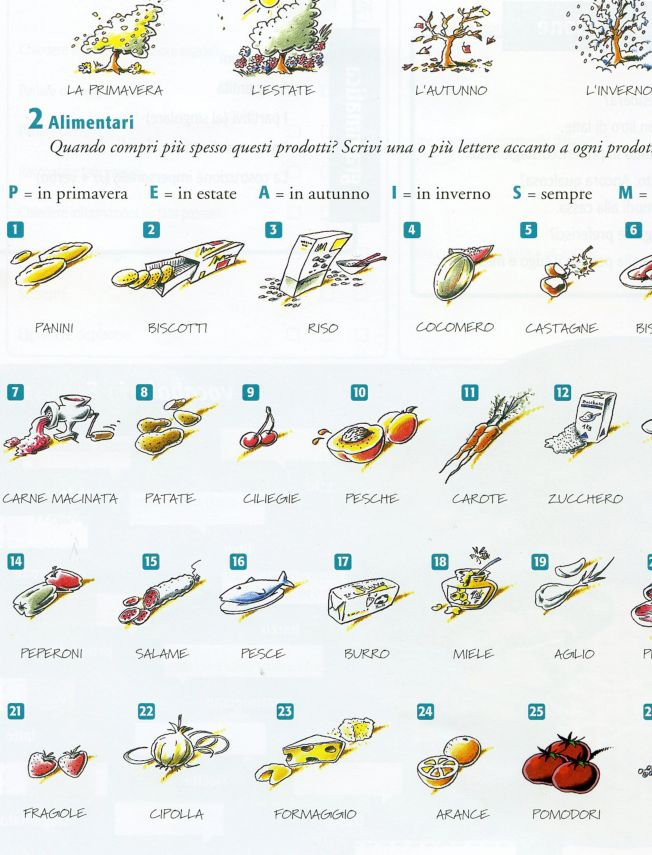
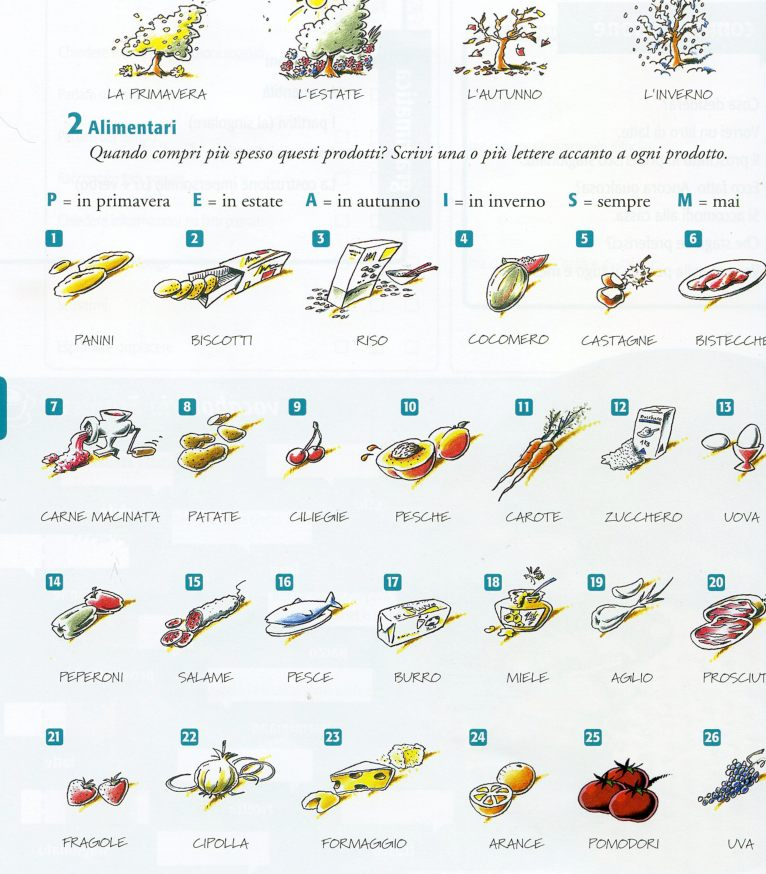
Improve Lesson 8-9 textbook image crops and give specific visual exercise answer checks

diff --git a/a1/lesson-09/exercise.md b/a1/lesson-09/exercise.md
@@ -408,7 +408,7 @@ Attempt each before expanding its answer, then invent a different sentence based
 
 <details><summary>How to check</summary>
 
-Use the original visible words and details in the cropped textbook picture, or compare to its printed captions. Where the exercise requires the publisher's recorded material, do not invent the official audio result. Try an original complete sentence using the [Vocabulary](vocabulary.md) words.
+Visible scenes include **playing football, working at a computer, shaving, working in a shop, and watching television**. Example: `Lui si fa la barba la mattina.`
 
 </details>
 
@@ -416,7 +416,7 @@ Use the original visible words and details in the cropped textbook picture, or c
 
 <details><summary>How to check</summary>
 
-Use the original visible words and details in the cropped textbook picture, or compare to its printed captions. Where the exercise requires the publisher's recorded material, do not invent the official audio result. Try an original complete sentence using the [Vocabulary](vocabulary.md) words.
+Read the print for the person's own reason; a model response is: `Domani ha una partita importante, quindi va a letto presto.` Do not claim an official listening answer without audio.
 
 </details>
 
@@ -426,7 +426,7 @@ Use the original visible words and details in the cropped textbook picture, or c
 
 <details><summary>How to check</summary>
 
-Use the original visible words and details in the cropped textbook picture, or compare to its printed captions. Where the exercise requires the publisher's recorded material, do not invent the official audio result. Try an original complete sentence using the [Vocabulary](vocabulary.md) words.
+The panels show a mixture of **waking, dressing, sport, work, television, and going to bed**. A sample timeline: `Mi sveglio, mi lavo, mi vesto, lavoro, faccio sport, guardo la TV, vado a letto.`
 
 </details>
 
@@ -434,7 +434,7 @@ Use the original visible words and details in the cropped textbook picture, or c
 
 <details><summary>How to check</summary>
 
-Use the original visible words and details in the cropped textbook picture, or compare to its printed captions. Where the exercise requires the publisher's recorded material, do not invent the official audio result. Try an original complete sentence using the [Vocabulary](vocabulary.md) words.
+Sample schedule: `Lavoro dalle nove alle cinque`; `Esco prima delle otto`; `Torno dopo le sei`. Check your specific source readings against these expressions.
 
 </details>
 
@@ -444,7 +444,7 @@ Use the original visible words and details in the cropped textbook picture, or c
 
 <details><summary>How to check</summary>
 
-Use the original visible words and details in the cropped textbook picture, or compare to its printed captions. Where the exercise requires the publisher's recorded material, do not invent the official audio result. Try an original complete sentence using the [Vocabulary](vocabulary.md) words.
+Use **all six original panels**. An original retelling: `Sabato mi sveglio tardi, esco, faccio una passeggiata, incontro gli amici e torno a casa.` Confirm scene details from the image rather than forcing this model onto the book characters.
 
 </details>
 
@@ -454,7 +454,7 @@ Use the original visible words and details in the cropped textbook picture, or c
 
 <details><summary>How to check</summary>
 
-Use the original visible words and details in the cropped textbook picture, or compare to its printed captions. Where the exercise requires the publisher's recorded material, do not invent the official audio result. Try an original complete sentence using the [Vocabulary](vocabulary.md) words.
+Follow the depicted clocks in sequence, then say: `Prima fa colazione, poi esce, dopo pranza e la sera torna a casa.` The precise times must be read from the visible clocks.
 
 </details>
 
@@ -462,7 +462,7 @@ Use the original visible words and details in the cropped textbook picture, or c
 
 <details><summary>How to check</summary>
 
-Use the original visible words and details in the cropped textbook picture, or compare to its printed captions. Where the exercise requires the publisher's recorded material, do not invent the official audio result. Try an original complete sentence using the [Vocabulary](vocabulary.md) words.
+For example: `Natale — 25 dicembre`; `Capodanno — 1 gennaio`; `Festa della donna — 8 marzo`. The source activity gives other celebrations as well.
 
 </details>
 
@@ -472,7 +472,7 @@ Use the original visible words and details in the cropped textbook picture, or c
 
 <details><summary>How to check</summary>
 
-Use the original visible words and details in the cropped textbook picture, or compare to its printed captions. Where the exercise requires the publisher's recorded material, do not invent the official audio result. Try an original complete sentence using the [Vocabulary](vocabulary.md) words.
+Original responses: `Ho superato l'esame!` → `Congratulazioni!`; `Domani vieni al cinema?` → `Volentieri!`; `Non posso venire` → `Peccato, un'altra volta!`
 
 </details>
 
@@ -480,7 +480,7 @@ Use the original visible words and details in the cropped textbook picture, or c
 
 <details><summary>How to check</summary>
 
-Use the original visible words and details in the cropped textbook picture, or compare to its printed captions. Where the exercise requires the publisher's recorded material, do not invent the official audio result. Try an original complete sentence using the [Vocabulary](vocabulary.md) words.
+`mi sveglio, ti svegli, si sveglia, ci svegliamo, vi svegliate, si svegliano`.
 
 </details>
 
@@ -488,7 +488,7 @@ Use the original visible words and details in the cropped textbook picture, or c
 
 <details><summary>How to check</summary>
 
-Use the original visible words and details in the cropped textbook picture, or compare to its printed captions. Where the exercise requires the publisher's recorded material, do not invent the official audio result. Try an original complete sentence using the [Vocabulary](vocabulary.md) words.
+Possible question: `Sei libero mercoledì sera?`; possible response: `No, ho un appuntamento. Facciamo venerdì?`. Verify the source agenda/video separately.
 
 </details>
 
@@ -498,7 +498,7 @@ Use the original visible words and details in the cropped textbook picture, or c
 
 <details><summary>How to check</summary>
 
-Use the original visible words and details in the cropped textbook picture, or compare to its printed captions. Where the exercise requires the publisher's recorded material, do not invent the official audio result. Try an original complete sentence using the [Vocabulary](vocabulary.md) words.
+The five images depict **a bottle, flowers, baby booties, a wrapped gift and red flowers/plant material**. Choose a plausible occasion, and explain why; multiple answers can be acceptable.
 
 </details>
 

diff --git a/a1/lesson-08/exercise.md b/a1/lesson-08/exercise.md
@@ -416,7 +416,7 @@ Attempt each before expanding its answer, then invent a different sentence based
 
 <details><summary>How to check</summary>
 
-Use the original visible words and details in the cropped textbook picture, or compare to its printed captions. Where the exercise requires the publisher's recorded material, do not invent the official audio result. Try an original complete sentence using the [Vocabulary](vocabulary.md) words.
+Visible examples: **1 panini, 2 biscotti, 3 riso, 4 cocomero, 5 castagne, 6 bistecche**. Other correct items are in the same image grid. Try: `Compro le fragole in primavera.`
 
 </details>
 
@@ -424,7 +424,7 @@ Use the original visible words and details in the cropped textbook picture, or c
 
 <details><summary>How to check</summary>
 
-Use the original visible words and details in the cropped textbook picture, or compare to its printed captions. Where the exercise requires the publisher's recorded material, do not invent the official audio result. Try an original complete sentence using the [Vocabulary](vocabulary.md) words.
+Try these six words, then check the original image labels: `panini, ciliegie, carote, miele, formaggio, uva`. Different six-item selections are also valid.
 
 </details>
 
@@ -434,7 +434,7 @@ Use the original visible words and details in the cropped textbook picture, or c
 
 <details><summary>How to check</summary>
 
-Use the original visible words and details in the cropped textbook picture, or compare to its printed captions. Where the exercise requires the publisher's recorded material, do not invent the official audio result. Try an original complete sentence using the [Vocabulary](vocabulary.md) words.
+From left to right the actual photographs show **mercato, panificio, macelleria**. Example requests: `Vorrei un chilo di mele`; `Vorrei del pane`; `Vorrei due etti di carne`.
 
 </details>
 
@@ -444,7 +444,7 @@ Use the original visible words and details in the cropped textbook picture, or c
 
 <details><summary>How to check</summary>
 
-Use the original visible words and details in the cropped textbook picture, or compare to its printed captions. Where the exercise requires the publisher's recorded material, do not invent the official audio result. Try an original complete sentence using the [Vocabulary](vocabulary.md) words.
+The source conversation includes requests for **mortadella, parmigiano, olive, yogurt** and food quantities. Find the phrases for `tre etti`, `un etto` and a request using `ne`; the exact original dialogue is visible above.
 
 </details>
 
@@ -452,7 +452,7 @@ Use the original visible words and details in the cropped textbook picture, or c
 
 <details><summary>How to check</summary>
 
-Use the original visible words and details in the cropped textbook picture, or compare to its printed captions. Where the exercise requires the publisher's recorded material, do not invent the official audio result. Try an original complete sentence using the [Vocabulary](vocabulary.md) words.
+Original model: `Buongiorno, vorrei due etti di parmigiano.` — `Fresco o stagionato?` — `Stagionato, grazie.` — `Nient'altro?` — `No, quanto viene?`
 
 </details>
 
@@ -462,7 +462,7 @@ Use the original visible words and details in the cropped textbook picture, or c
 
 <details><summary>How to check</summary>
 
-Use the original visible words and details in the cropped textbook picture, or compare to its printed captions. Where the exercise requires the publisher's recorded material, do not invent the official audio result. Try an original complete sentence using the [Vocabulary](vocabulary.md) words.
+Look at the printed five recipe pictures. The captions show **cuocere, versare, mescolare, aggiungere, tagliare**. An original sequence: `Prima taglio le verdure, poi verso l'olio, aggiungo il sale, mescolo e cuocio.`
 
 </details>
 
@@ -470,7 +470,7 @@ Use the original visible words and details in the cropped textbook picture, or c
 
 <details><summary>How to check</summary>
 
-Use the original visible words and details in the cropped textbook picture, or compare to its printed captions. Where the exercise requires the publisher's recorded material, do not invent the official audio result. Try an original complete sentence using the [Vocabulary](vocabulary.md) words.
+Examples: `€4,20 = quattro euro e venti centesimi`; `€7,50 = sette euro e cinquanta`; `€12,00 = dodici euro`. €20 − €12 = **otto euro di resto**.
 
 </details>
 
@@ -478,7 +478,7 @@ Use the original visible words and details in the cropped textbook picture, or c
 
 <details><summary>How to check</summary>
 
-Use the original visible words and details in the cropped textbook picture, or compare to its printed captions. Where the exercise requires the publisher's recorded material, do not invent the official audio result. Try an original complete sentence using the [Vocabulary](vocabulary.md) words.
+Examples: `Lo compro`; `La prendo`; `Li mangio`; `Le compro`; `Ne prendo due`; `In Italia si mangia pasta`.
 
 </details>
 
@@ -486,7 +486,7 @@ Use the original visible words and details in the cropped textbook picture, or c
 
 <details><summary>How to check</summary>
 
-Use the original visible words and details in the cropped textbook picture, or compare to its printed captions. Where the exercise requires the publisher's recorded material, do not invent the official audio result. Try an original complete sentence using the [Vocabulary](vocabulary.md) words.
+Describe rather than guess recorded dialogue: `Il cliente vuole un panino`; `Il negoziante prepara il panino`. Video comprehension needs the official video.
 
 </details>
 
@@ -496,7 +496,7 @@ Use the original visible words and details in the cropped textbook picture, or c
 
 <details><summary>How to check</summary>
 
-Use the original visible words and details in the cropped textbook picture, or compare to its printed captions. Where the exercise requires the publisher's recorded material, do not invent the official audio result. Try an original complete sentence using the [Vocabulary](vocabulary.md) words.
+The original illustration labels include **gianduiotto, parmigiano reggiano, mozzarella, prosciutto di Parma, olio d'oliva, tortellini, chianti**. Example: `Vorrei assaggiare i tortellini`.
 
 </details>
 
